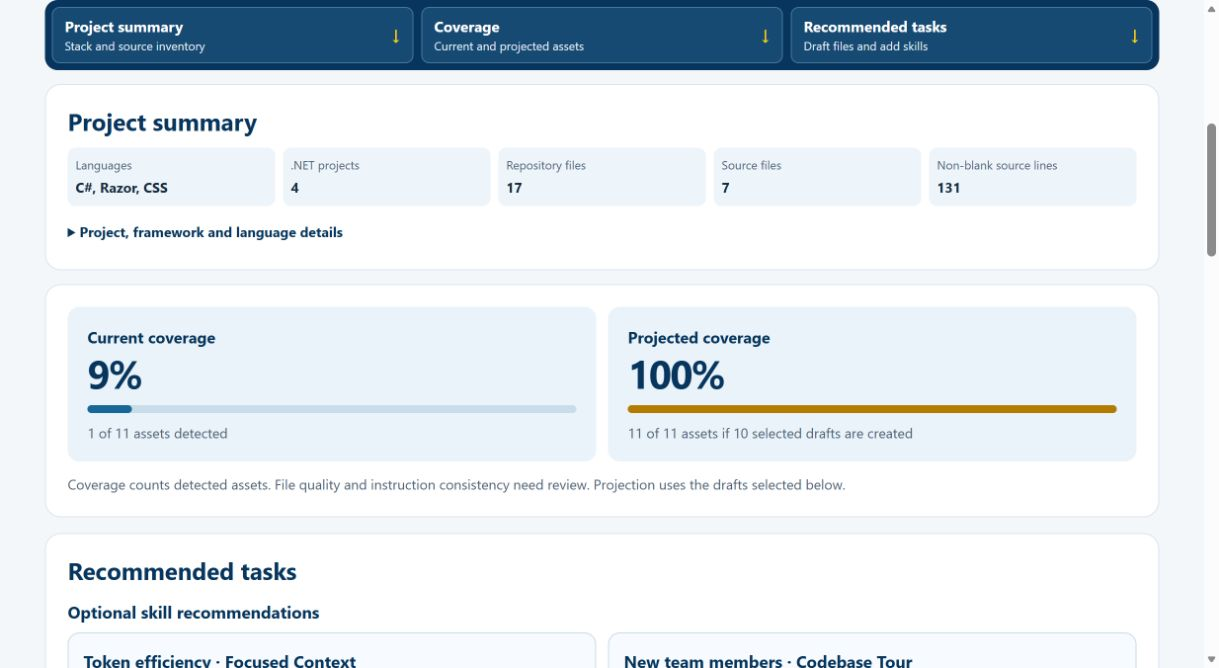
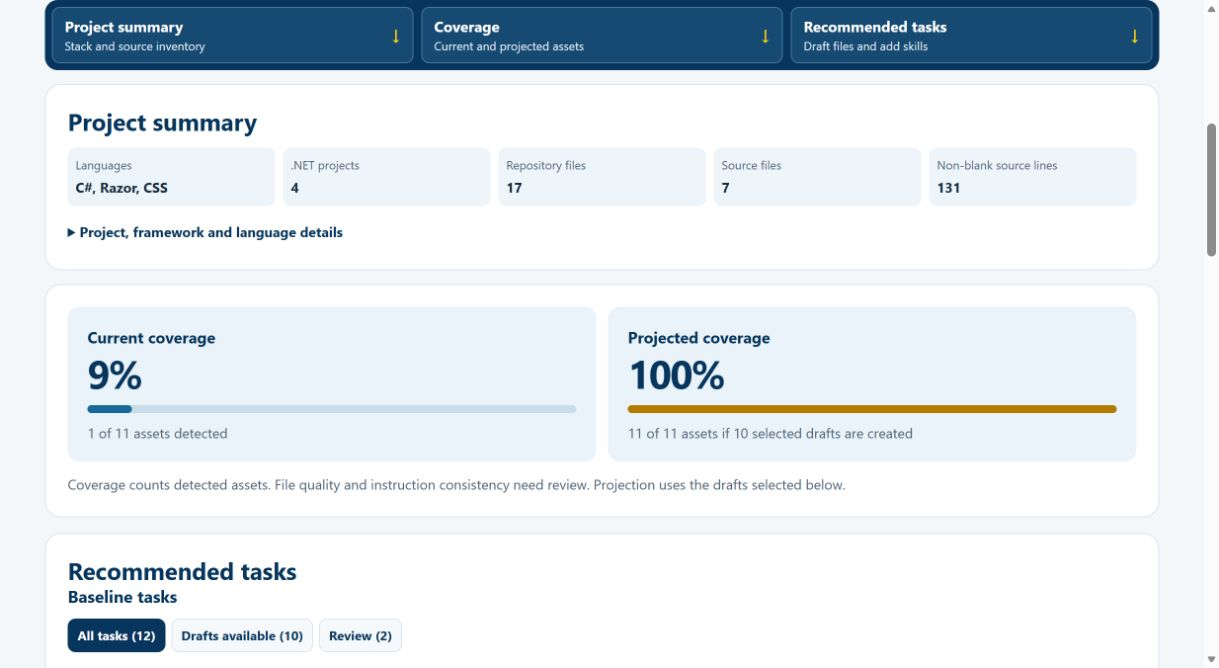
Put baseline tasks before optional skills

Changed region(s): [[0.0312, 0.8683, 0.3429, 1.0], [0.4988, 0.988, 0.7482, 1.0]]

diff --git a/web/index.html b/web/index.html
@@ -43,7 +43,7 @@ progress::-webkit-progress-value{background:var(--blue);border-radius:10px}
 .projected progress::-webkit-progress-value{background:#b37c00}
 .projected progress{accent-color:#b37c00}
 .note{margin-top:12px}
-.task-panel{margin-top:16px}.recommendations{margin:16px 0 20px}
+.task-panel{margin-top:16px}.recommendations{margin:22px 0 0;padding-top:16px;border-top:1px solid var(--line)}
 .recommendation-grid{display:grid;grid-template-columns:repeat(2,minmax(0,1fr));gap:12px;margin-top:10px}
 .recommendation{padding:15px;border:1px solid #cadbe8;background:#f7fbff;border-radius:12px;min-width:0}
 .recommendation h4{margin:0;color:var(--navy);font-size:17px}
@@ -163,13 +163,13 @@ footer{text-align:center;color:var(--muted);font-size:14px;margin:24px}
     </div>
     <section class="panel task-panel" aria-labelledby="tasks-title">
       <h2 id="tasks-title" tabindex="-1">Recommended tasks</h2>
+      <h3>Baseline tasks</h3>
+      <div id="filters" class="filters" role="group" aria-label="Filter baseline tasks"></div>
+      <div id="checks"></div>
       <section class="recommendations" aria-labelledby="recommendations-title">
         <h3 id="recommendations-title" tabindex="-1">Optional skill recommendations</h3>
         <div id="recommendations" class="recommendation-grid"></div>
       </section>
-      <h3>Baseline tasks</h3>
-      <div id="filters" class="filters" role="group" aria-label="Filter baseline tasks"></div>
-      <div id="checks"></div>
     </section>
   </section>
 </main>

diff --git a/README.md b/README.md
@@ -44,7 +44,7 @@ The **Project summary** appears above coverage. It shows key technologies and so
 
 The scanner counts non-blank source lines, including comments, in tracked and unignored files. It excludes common build, dependency, and generated files. Repository file totals increase when you create an unignored guidance file.
 
-**Recommended tasks** groups the 12 checks into agent guidance, onboarding, and development workflow. Use filters to see all tasks, available drafts, or items to review. Each task explains the purpose of its proposed change.
+**Recommended tasks** groups the 12 checks into agent guidance, onboarding, and development workflow. Use filters to see all tasks, available drafts, or items to review. Each task explains the purpose of its proposed change. Optional skill recommendations follow the baseline tasks.
 
 | Status | Meaning |
 | --- | --- |
@@ -52,7 +52,7 @@ The scanner counts non-blank source lines, including comments, in tracked and un
 | **Detected · Review** | The expected evidence exists. Review its content before treating the check as complete. |
 | **Manual review** | The check needs human judgment, such as checking for inconsistent instructions. |
 
-![Recommended tasks with token efficiency and new-team-member skill recommendations](docs/screenshots/03-checklist.jpg)
+![Recommended tasks with AGENTS.md and Copilot instructions first](docs/screenshots/03-checklist.jpg)
 
 ## 4. Preview, approve, and verify a draft
 
